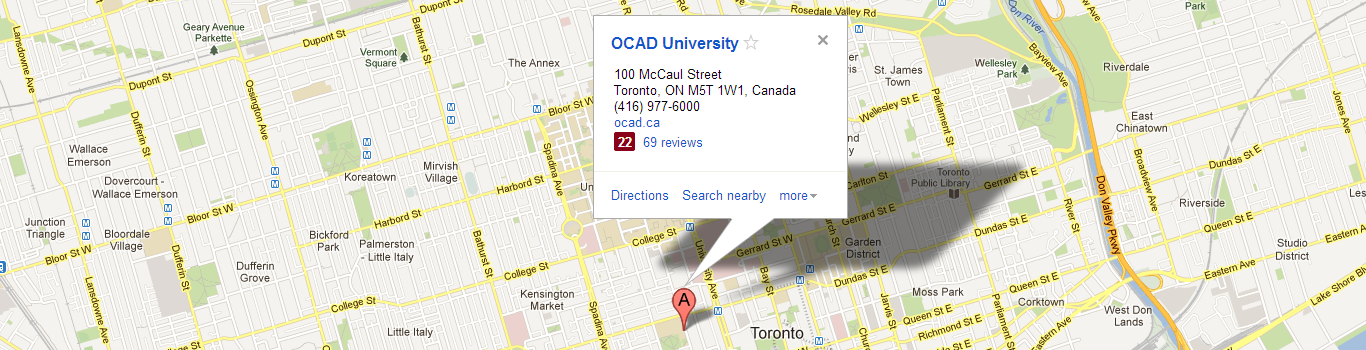
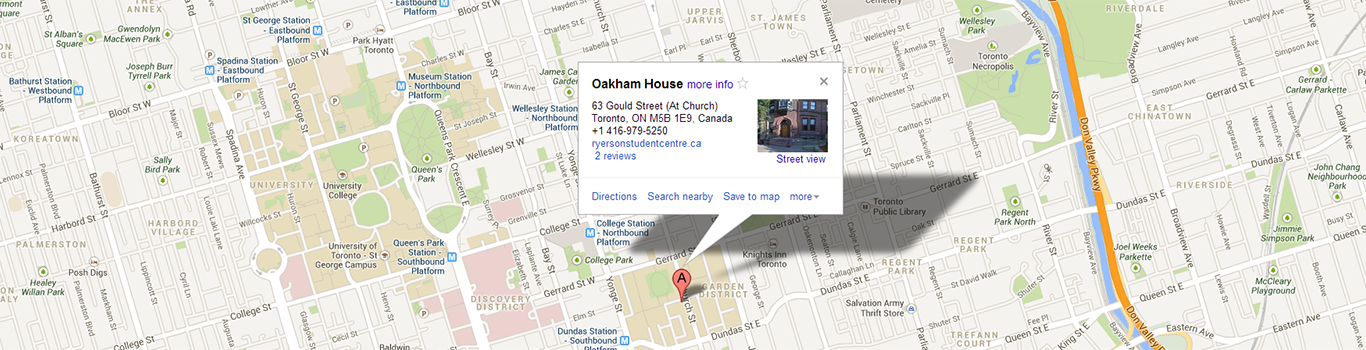
Update date/time/location information

diff --git a/index.html b/index.html
@@ -75,12 +75,11 @@
                     </form>
                 </div>
                 <div id="logistics" class="span3">
-                    <!-- <strong>November 2X, 2013</strong>
-                    <strong>XX AM to XX PM</strong> -->
-                    Date and time information coming soon!<br/><br/>
-                    OCAD University<br/>
-                    100 McCaul Street<br/>
-                    Toronto, ON M5T 1W1<br/>
+                    <strong>November 23, 2013</strong>
+                    <strong>12&nbsp;PM to 4&nbsp;PM</strong>
+                    Oakham House<br/>
+                    63 Gould Street (At Church)<br/>
+                    Toronto, ON M5B&nbsp;1E9<br/>
                     <br/><a href="#contactModal" data-toggle="modal" data-target="#contactModal">Contact Us</a>
                 </div>
             </div>
@@ -205,7 +204,7 @@
             </div>
             <noframes><img id="large-map-img" src="img/large-map.png" alt="The location of this year's university will be at OCAD university. 100 McCaul Street, Toronto, ON, M5T 1W1" /></noframes>
             <img id="small-map-img" src="img/small-map.png" alt="The location of this year's university will be at OCAD university. 100 McCaul Street, Toronto, ON, M5T 1W1" />
-            <iframe id="map-frame" width="100%" height="350" frameborder="0" scrolling="no" marginheight="0" marginwidth="0" src="http://maps.google.com/maps?f=q&amp;source=s_q&amp;hl=en&amp;geocode=&amp;q=ocad&amp;sll=43.656877,-79.32085&amp;sspn=0.536521,1.352692&amp;t=m&amp;ie=UTF8&amp;hq=ocad&amp;ll=43.663332,-79.391254&amp;spn=0.008383,0.021136&amp;z=14&amp;iwloc=A&amp;cid=9667773230772056803&amp;output=embed"></iframe>
+            <iframe id="map-frame" width="100%" height="350" frameborder="0" scrolling="no" marginheight="0" marginwidth="0" src="https://maps.google.com/maps?f=q&amp;source=s_q&amp;hl=en&amp;geocode=&amp;q=oakham+house&amp;aq=&amp;sll=37.0625,-95.677068&amp;sspn=58.858685,49.482422&amp;ie=UTF8&amp;hq=oakham+house&amp;hnear=&amp;ll=43.668041,-79.378107&amp;spn=0.013273,0.033023&amp;t=m&amp;z=14&amp;iwloc=A&amp;cid=10606924802877257679&amp;output=embed"></iframe>
         </div>
 
         <div id="faq" class="row-fluid">
